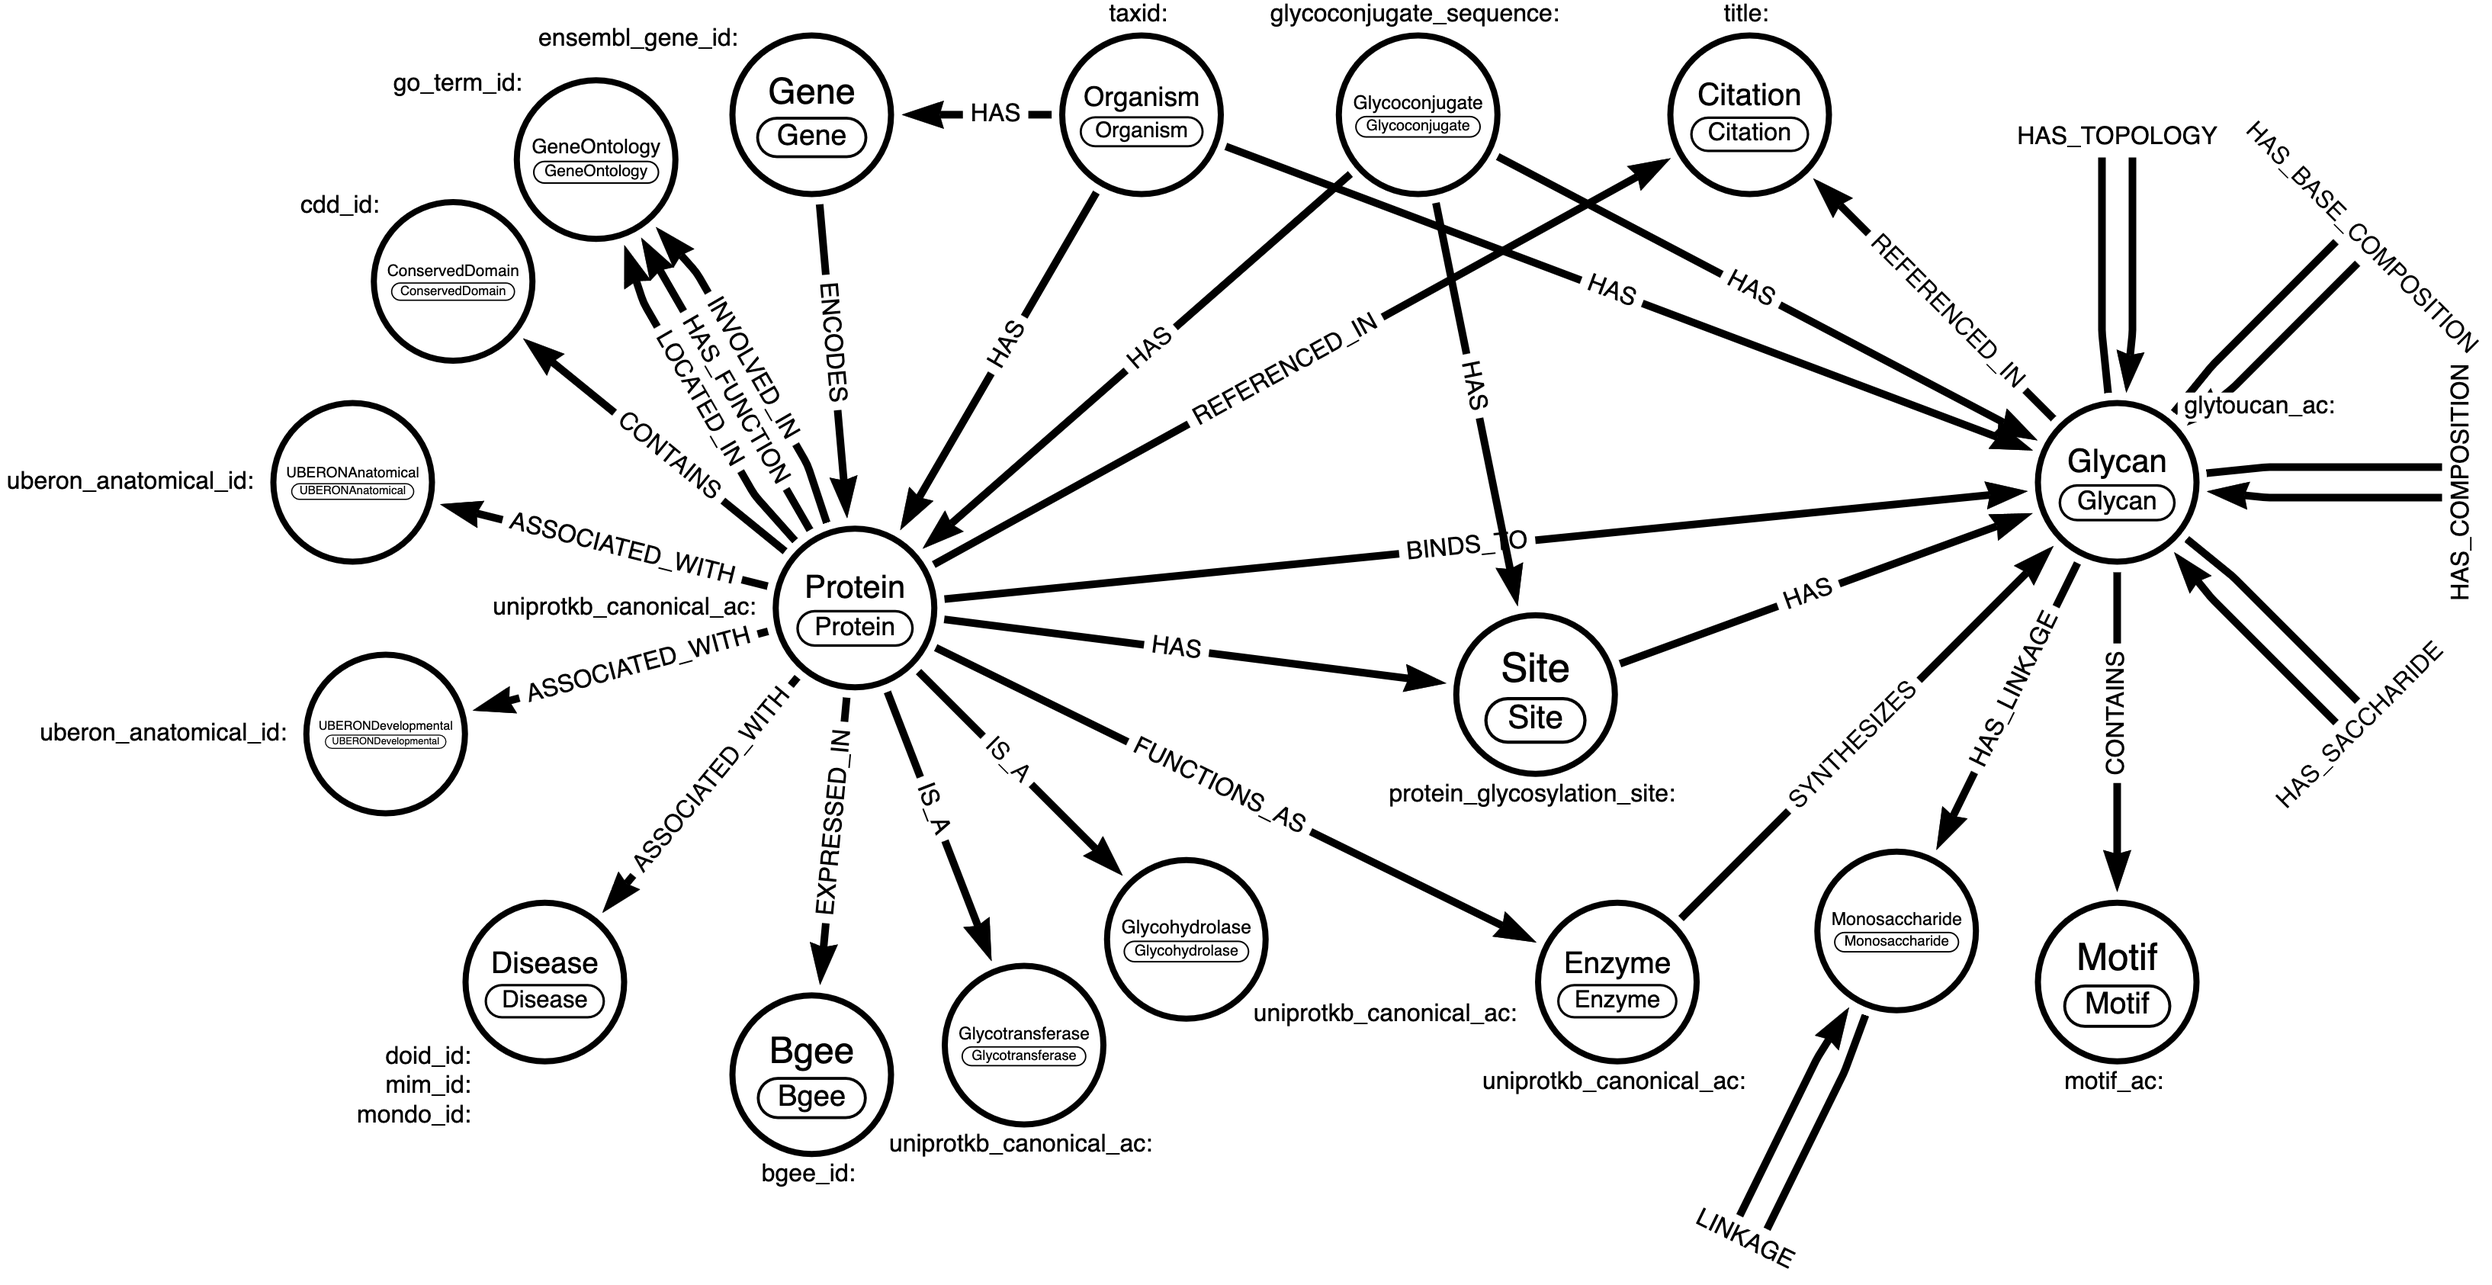
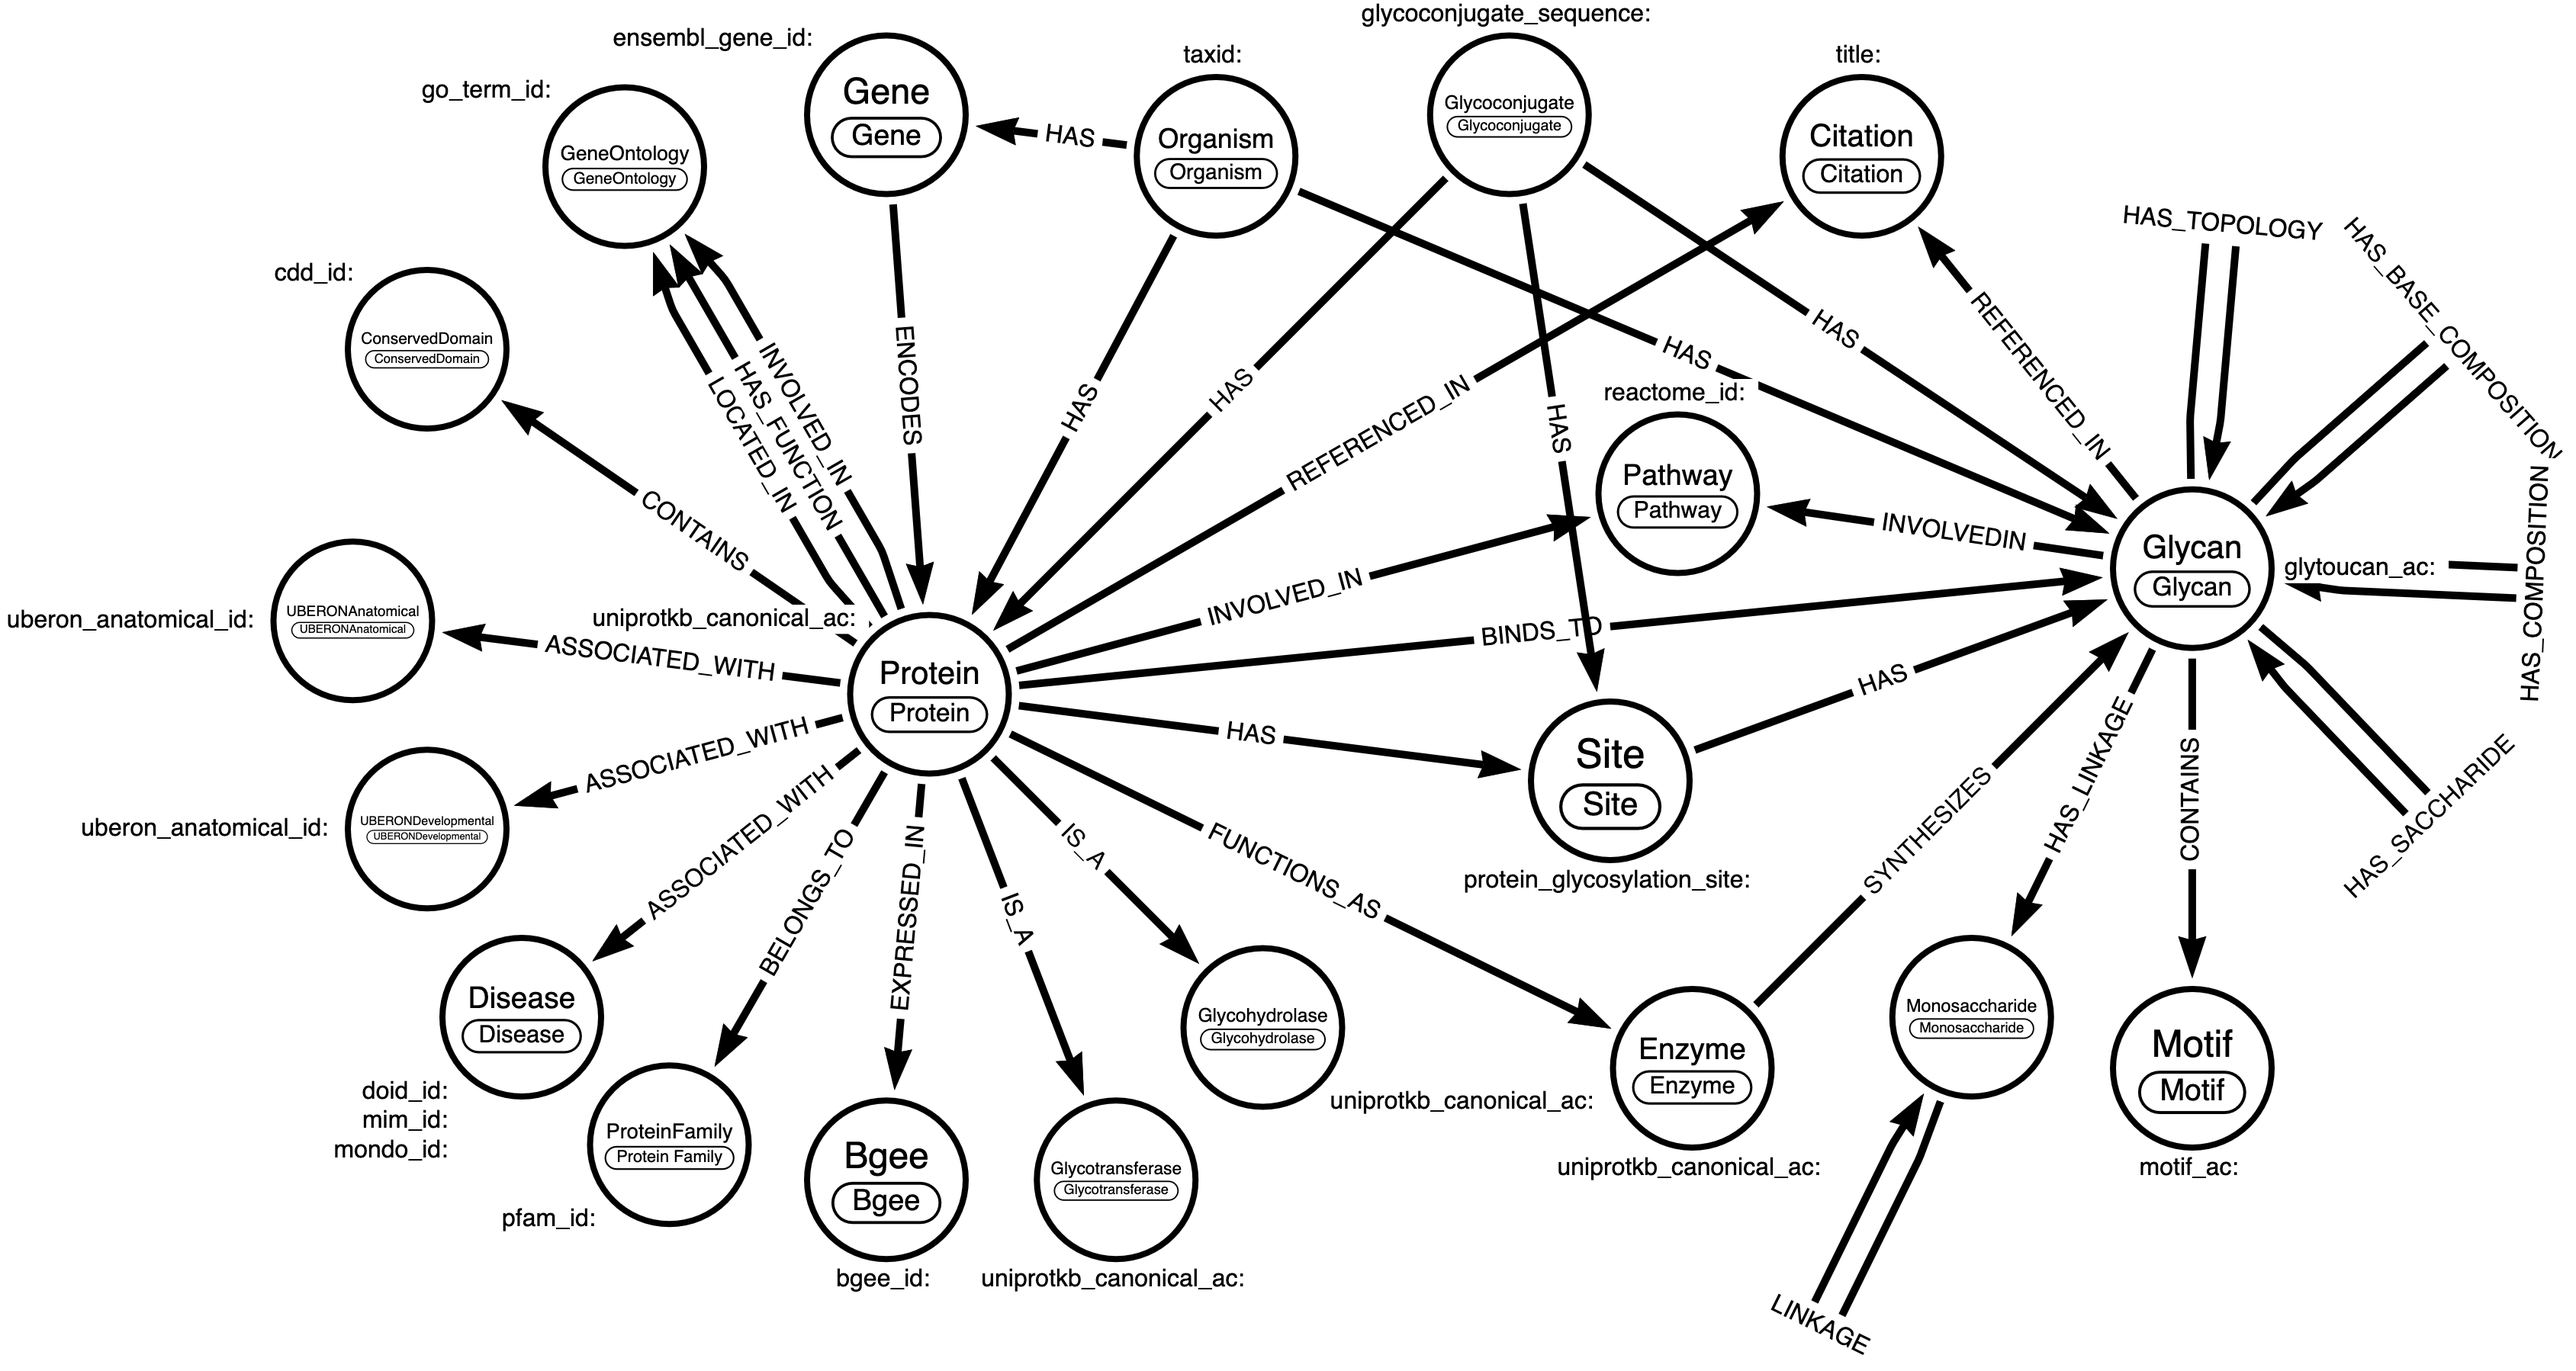
reactome update

diff --git a/README.md b/README.md
@@ -258,7 +258,11 @@ docker exec -it glycoproteomics-graph-tool bash
 
 # Reference Source Materials 
 
+Graph database management software:
+
 - Neo4j Graph Databases: [Link](https://neo4j.com/)
+
+Data sources:
 
 - GlyGen: Computational and Informatics Resources for Glycoscience, Glycobiology, Volume 30, Issue 2, February 2020, Pages 72–73, https://doi.org/10.1093/glycob/cwz080
 
@@ -281,6 +285,9 @@ docker exec -it glycoproteomics-graph-tool bash
 - Cantarel BL, Coutinho PM, Rancurel C, Bernard T, Lombard V, Henrissat B. The Carbohydrate-Active EnZymes database (CAZy): an expert resource for Glycogenomics. Nucleic Acids Res. 2009 Jan;37(Database issue):D233-8. doi: 10.1093/nar/gkn663. Epub 2008 Oct 5. PMID: 18838391; PMCID: PMC2686590.
 
 - Szklarczyk, Damian, Rebecca Kirsch, Mikaela Koutrouli, Katerina Nastou, Farrokh Mehryary, Radja Hachilif, Annika L. Gable, et al. “The STRING Database in 2023: Protein-Protein Association Networks and Functional Enrichment Analyses for Any Sequenced Genome of Interest.” Nucleic Acids Research 51, no. D1 (January 6, 2023): D638–46. https://doi.org/10.1093/nar/gkac1000.
+
+- Fabregat, Antonio, Konstantinos Sidiropoulos, Guilherme Viteri, Oscar Forner, Pablo Marin-Garcia, Vicente Arnau, Peter D’Eustachio, Lincoln Stein, and Henning Hermjakob. “Reactome Pathway Analysis: A High-Performance in-Memory Approach.” BMC Bioinformatics 18, no. 1 (March 2, 2017): 142. https://doi.org/10.1186/s12859-017-1559-2.
+
 
 ## License
 
